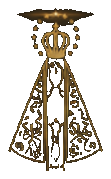
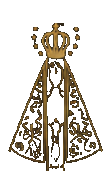
ajuste

Changed region(s): [[0.1622, 0.0279, 0.8378, 0.1676]]

diff --git a/src/home.css b/src/home.css
@@ -2038,6 +2038,7 @@ body.nav-drawer-open {
   --section-divider-line-soft: rgba(201, 155, 50, 0.12);
   /* Page-matching blot so jewelry lines never read through the crown */
   --section-divider-blot: #f6efe4;
+  --section-divider-oval: rgba(168, 124, 36, 0.72);
   position: relative;
   z-index: 2;
   box-sizing: border-box;
@@ -2062,12 +2063,14 @@ body.nav-drawer-open {
   --section-divider-line: rgba(168, 124, 36, 0.48);
   --section-divider-line-soft: rgba(168, 124, 36, 0.1);
   --section-divider-blot: #f6efe4;
+  --section-divider-oval: rgba(168, 124, 36, 0.75);
 }
 
 .section-divider--dark {
   --section-divider-line: rgba(223, 189, 105, 0.55);
   --section-divider-line-soft: rgba(223, 189, 105, 0.12);
   --section-divider-blot: #1a1510;
+  --section-divider-oval: rgba(223, 189, 105, 0.7);
 }
 
 .section-divider__line {
@@ -2123,26 +2126,39 @@ body.nav-drawer-open {
 
 .section-divider__medallion--saint {
   z-index: 2;
-  width: 64px;
-  height: 64px;
+  width: 68px;
+  height: 72px;
   max-height: 100%;
   margin: 0;
   padding: 0;
   border: none;
   border-radius: 0;
-  /* Opaque blot masks any stroke through crown / transparent PNG gaps */
+  /* Cream/dark blot — jewelry lines stop at the sides; no stroke through crown */
   background: radial-gradient(
-    ellipse 78% 62% at 50% 46%,
+    ellipse 82% 68% at 50% 48%,
     var(--section-divider-blot) 0%,
-    var(--section-divider-blot) 58%,
-    transparent 82%
+    var(--section-divider-blot) 55%,
+    transparent 80%
   );
   box-shadow: none;
 }
 
-/* No gold haze behind santa — it read as a risco across the crown */
+/* Clean gold oval framing crown + stars — apex clears the cross */
 .section-divider__medallion--saint::before {
-  content: none;
+  content: '';
+  position: absolute;
+  z-index: 0;
+  left: 50%;
+  top: -18%;
+  width: 118%;
+  height: 64%;
+  transform: translateX(-50%);
+  box-sizing: border-box;
+  border: 1.25px solid var(--section-divider-oval);
+  border-radius: 50%;
+  background: transparent;
+  box-shadow: none;
+  pointer-events: none;
 }
 
 .section-divider__saint {
@@ -2150,13 +2166,14 @@ body.nav-drawer-open {
   z-index: 1;
   display: block;
   width: auto;
-  max-width: 100%;
-  height: 100%;
+  max-width: 82%;
+  height: 84%;
+  margin-top: 10%;
   object-fit: contain;
   object-position: center center;
   background: transparent;
   border: none;
-  filter: drop-shadow(0 1px 2px rgba(26, 21, 16, 0.12));
+  filter: drop-shadow(0 1px 2px rgba(26, 21, 16, 0.1));
 }
 
 .brand-hero:has(+ .section-divider) {
@@ -2550,8 +2567,8 @@ body.nav-drawer-open {
   }
 
   .section-divider__medallion--saint {
-    width: 52px;
-    height: 56px;
+    width: 56px;
+    height: 60px;
   }
 
   .featured-collection--campaign {

diff --git a/src/preview.css b/src/preview.css
@@ -1054,8 +1054,8 @@
 }
 
 .mobile-preview .section-divider__medallion--saint {
-  width: 48px;
-  height: 52px;
+  width: 52px;
+  height: 56px;
   padding: 0;
   border: none;
   border-radius: 0;
@@ -1073,8 +1073,8 @@
 }
 
 .mobile-preview .section-divider--after-hero .section-divider__medallion--saint {
-  width: 52px;
-  height: 60px;
+  width: 56px;
+  height: 62px;
   padding: 0;
   border: none;
   border-radius: 0;
